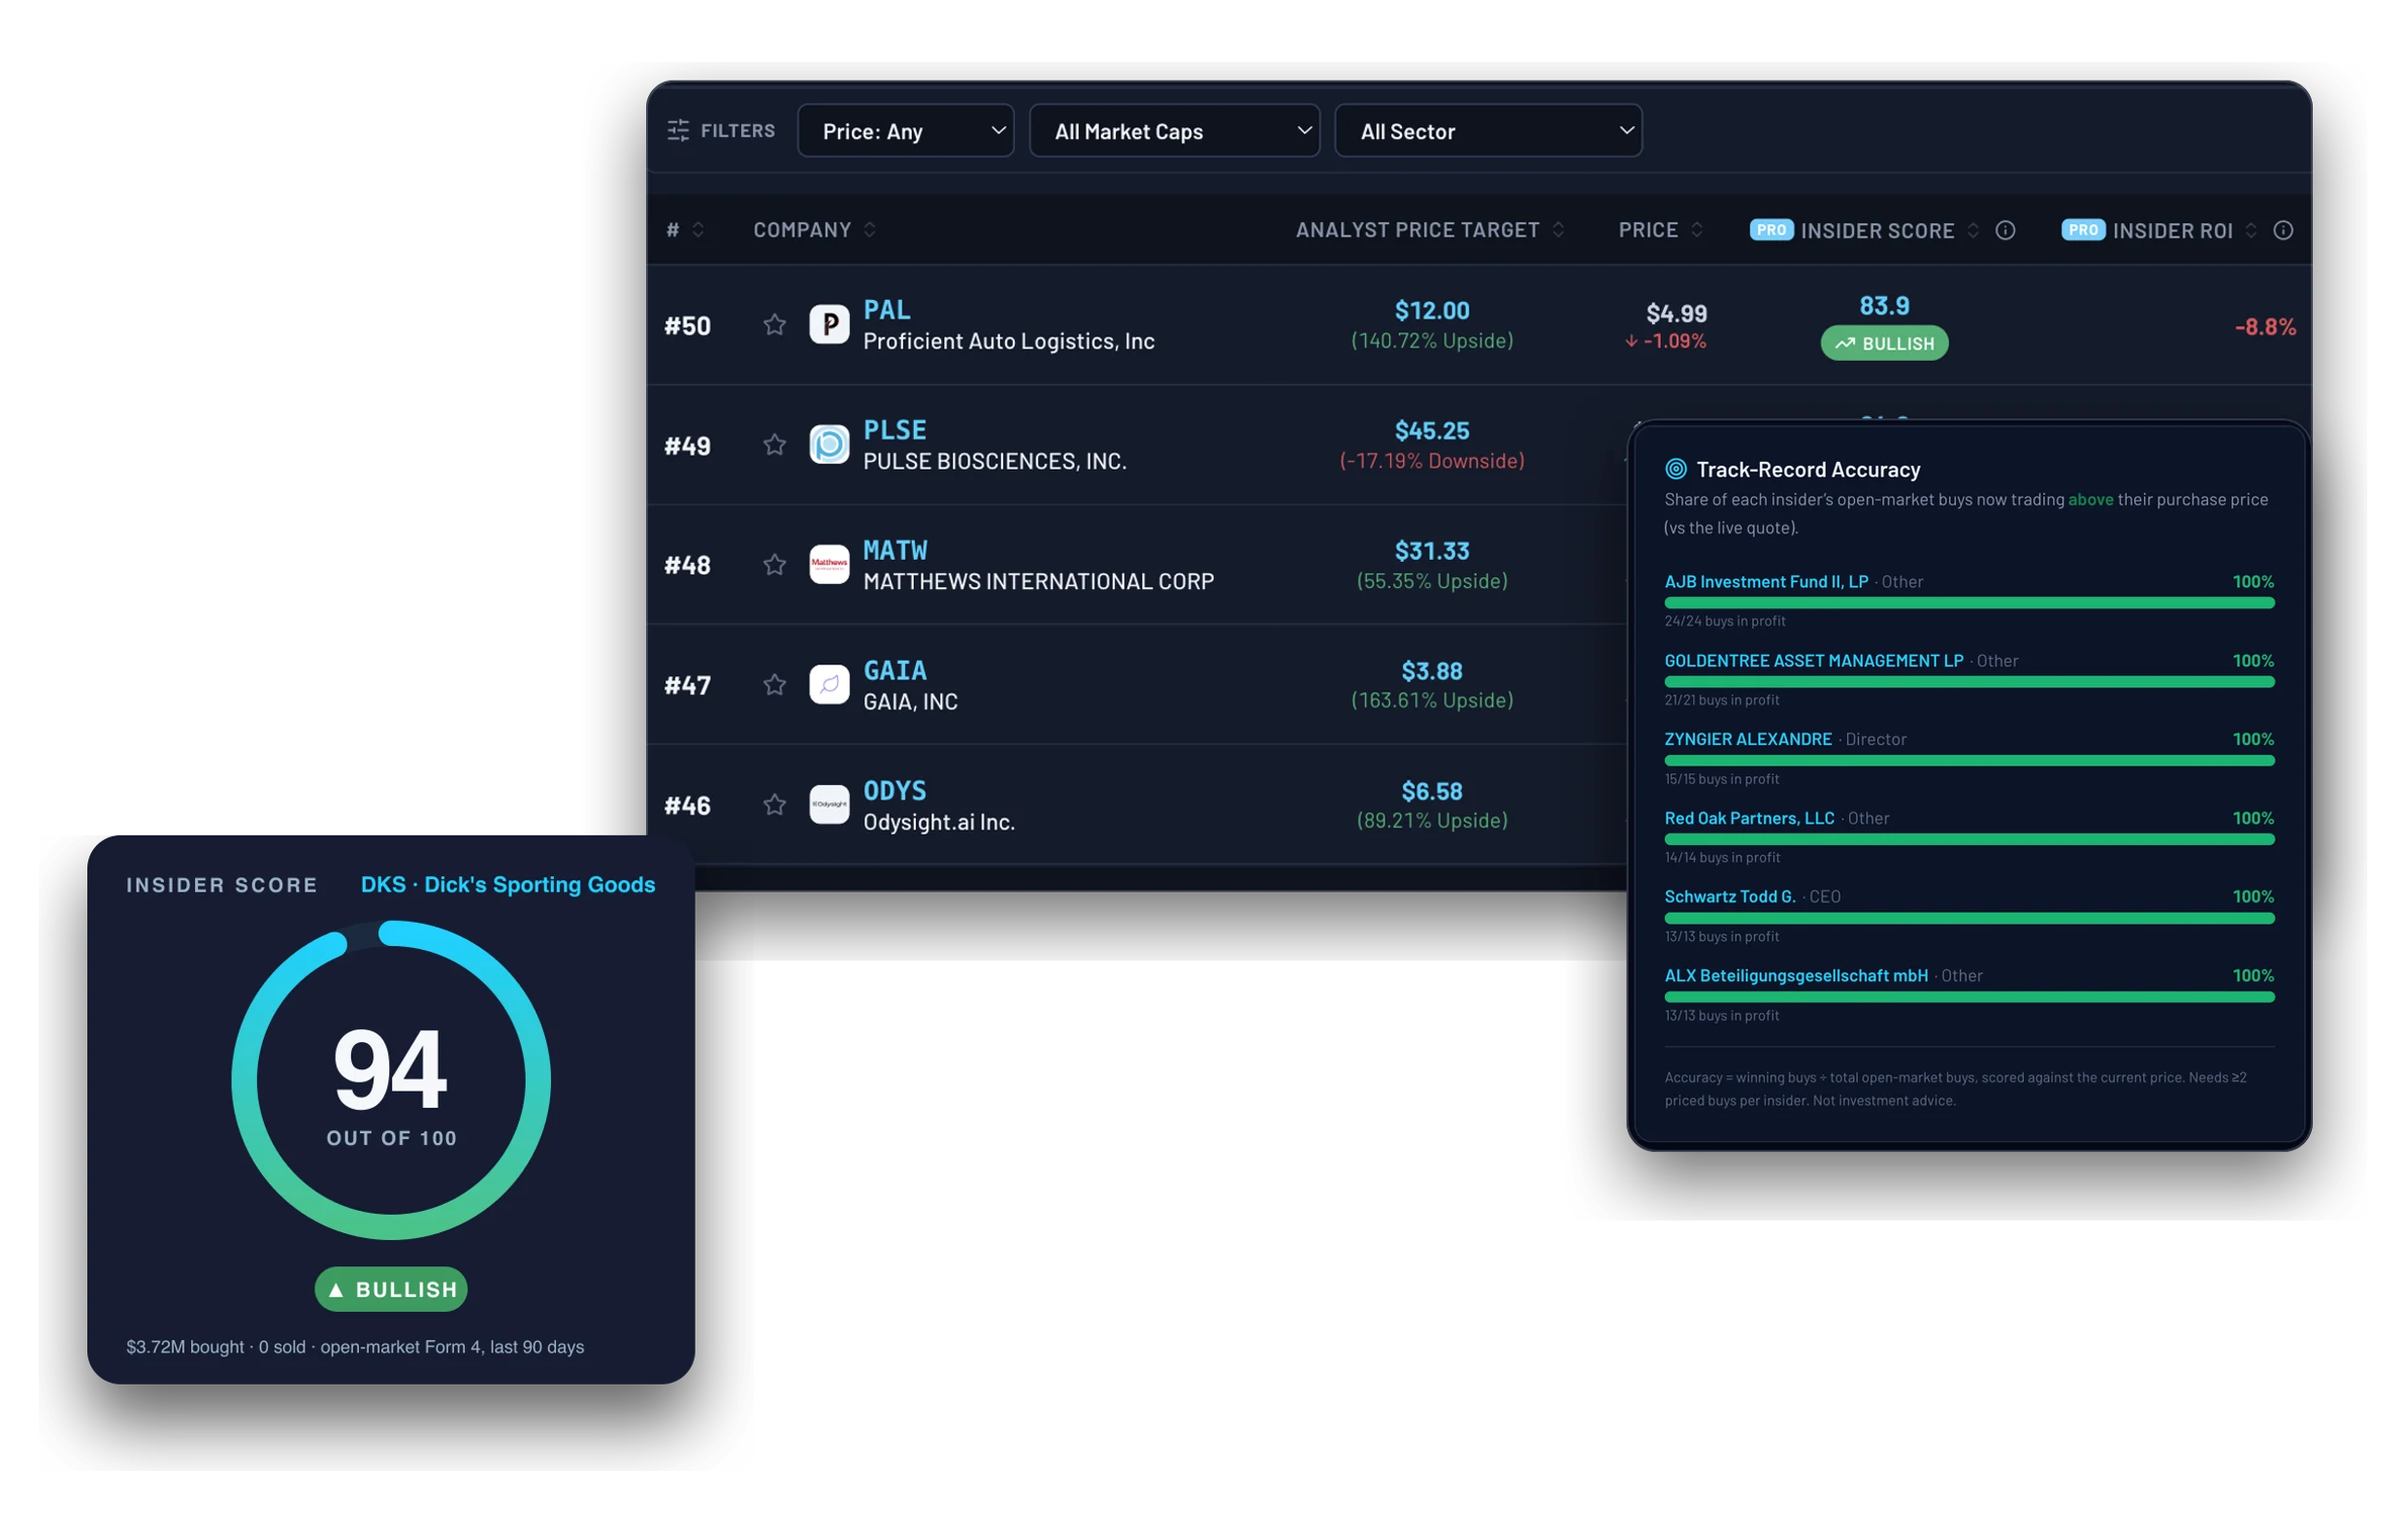
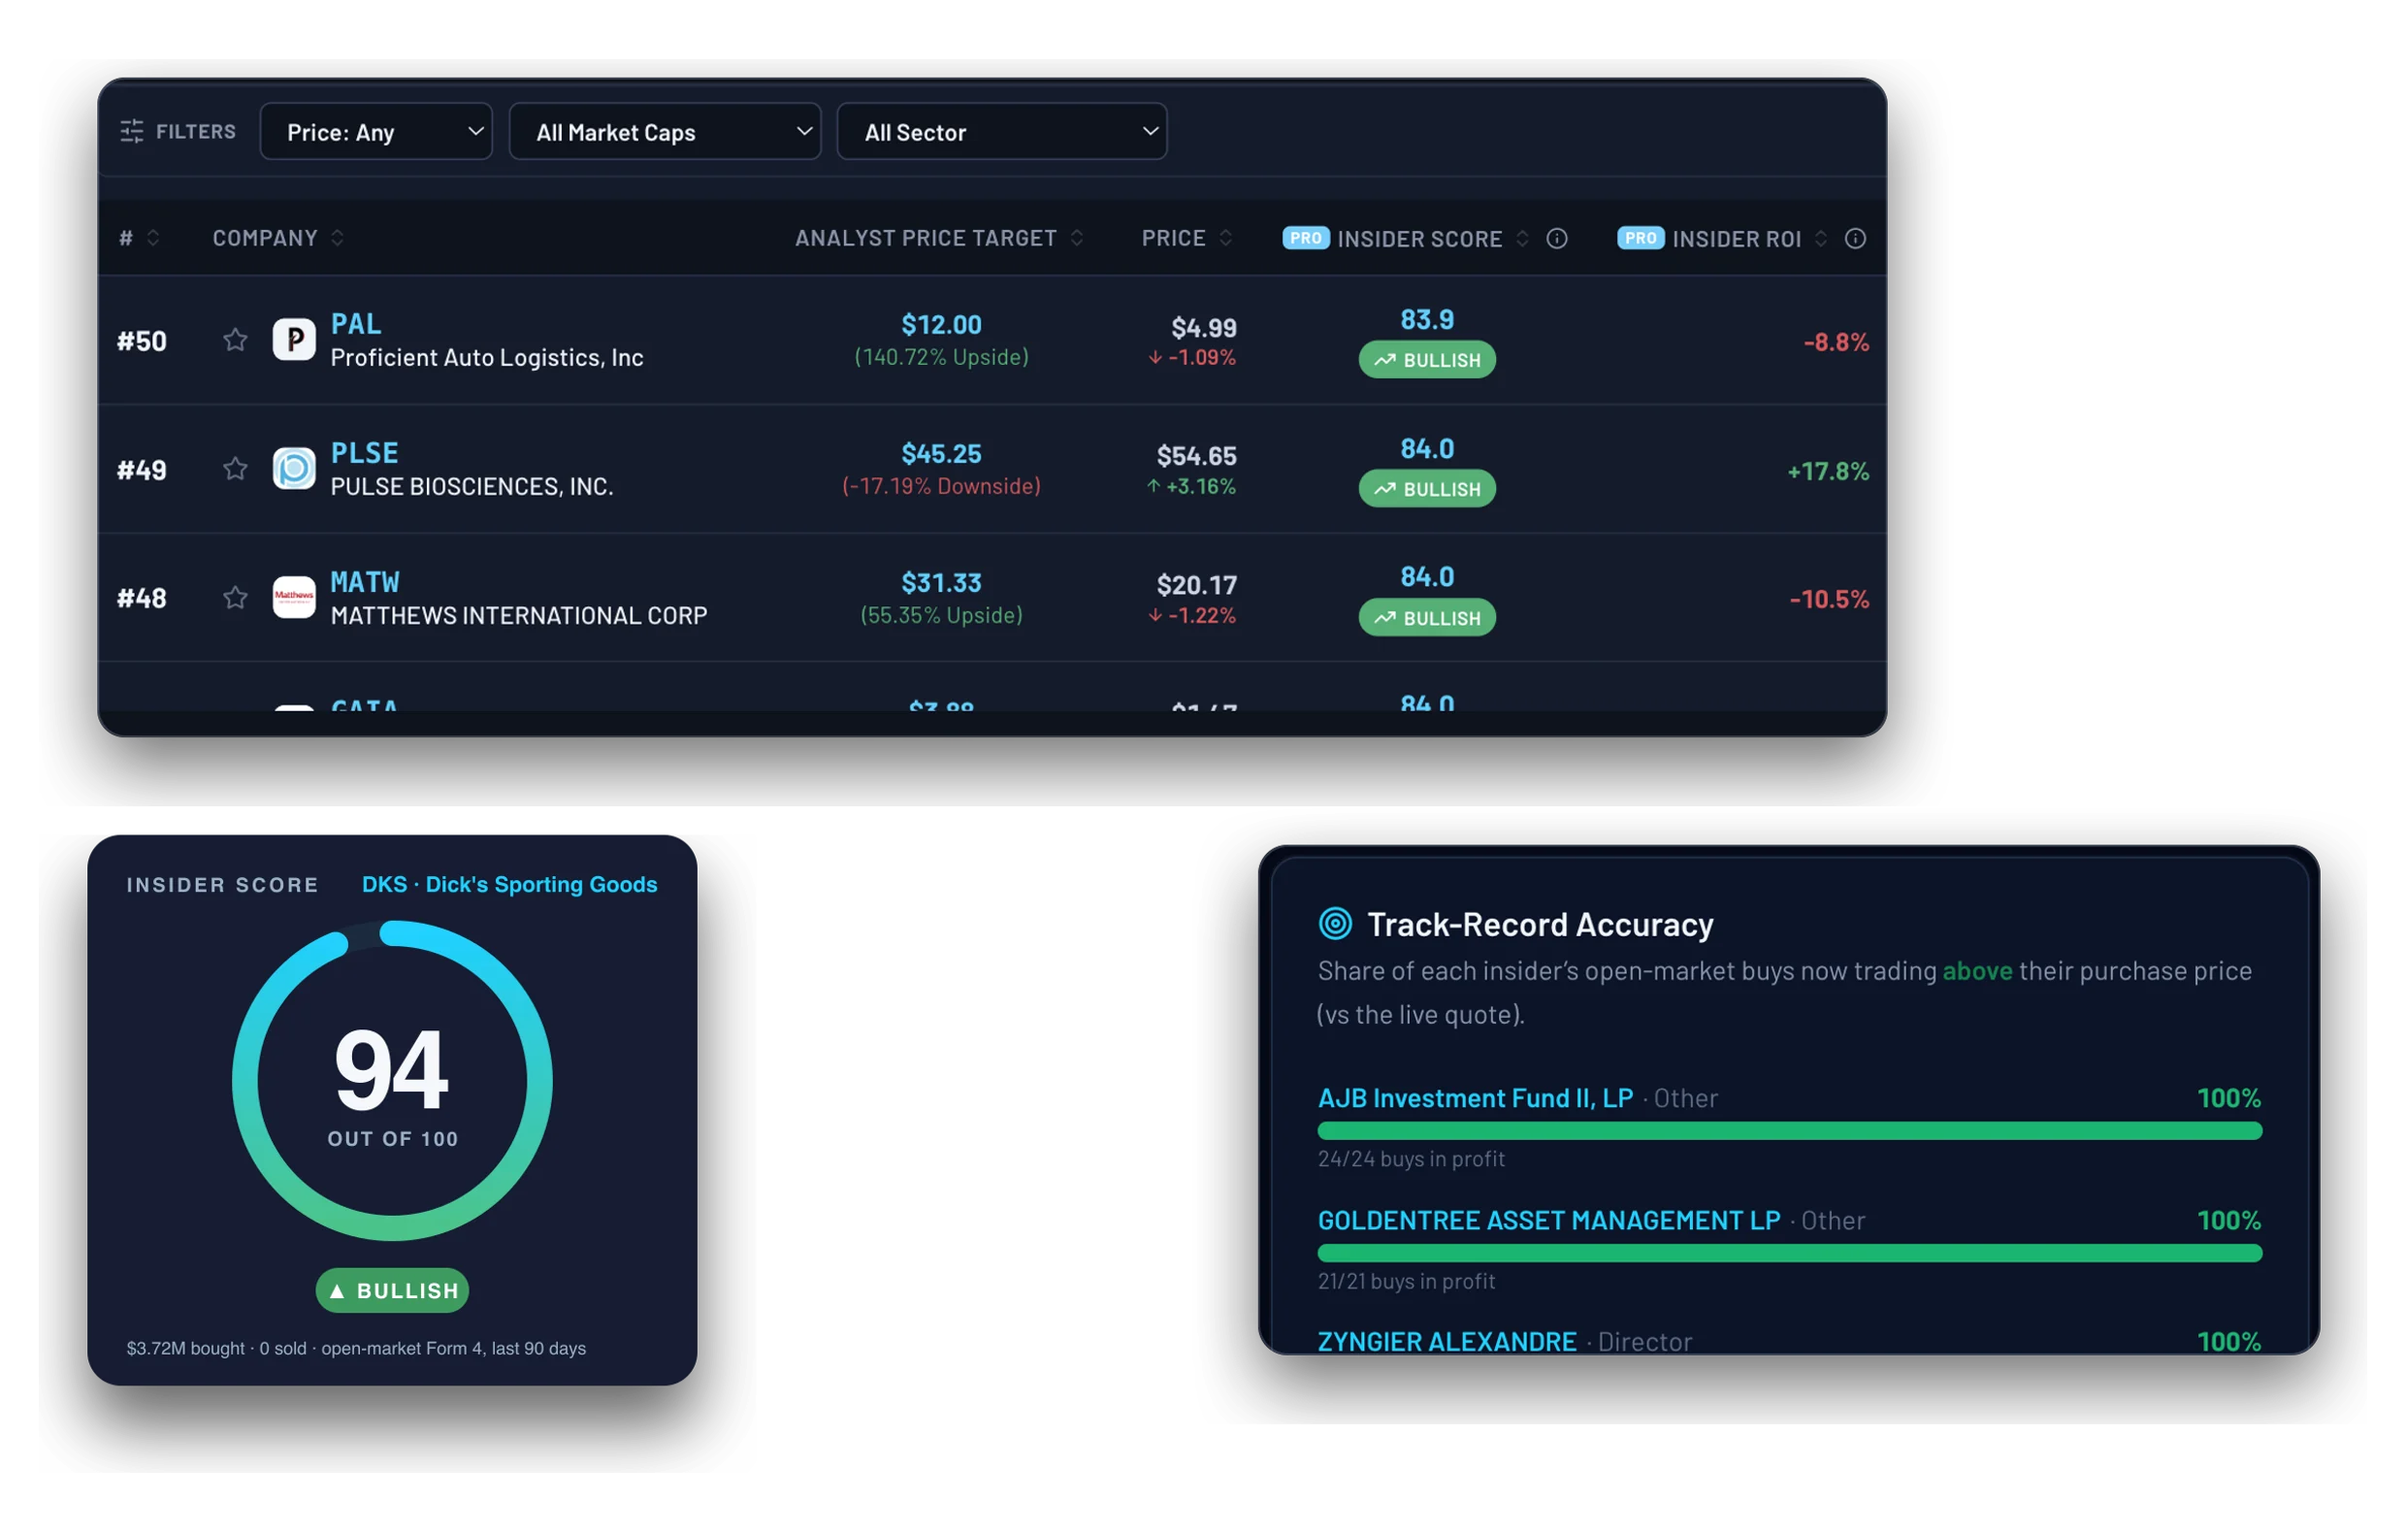
Subscribe visuals: make the screenshots readable, which is what George asked
George, twice on the 2026-09-10 call: "I don't like any of these screen shots
— you can't see this, right… it's too small." Measured against the live site,
every card in these compositions rendered smaller than its real size: the
track-record card at 0.60x, the ranked list at 0.63x, the tables at 0.81x and
0.87x. Three cards sharing one 16:10 frame that renders at ~966 CSS px is why.

frame() gains keepH, a height fraction, so a card can be WIDENED for legible
type and still fit the canvas by showing fewer rows — a pixel trimBottom could
not do that, because the light and dark captures are different sizes.

Visual 1 keeps its three cards but each is wider and shorter, laid out table
top-left, track-record bottom-right, dial bottom-left, so the only overlap left
is a thin band on the table's last row instead of the score columns.

Visual 3 drops the track-record card — visual 1 already carries it, and three
wide cards cannot share a frame without hiding each other. The analyst table
and the ranked list now sit one above the other at near full canvas width with
no overlap at all.

Both compositions still fill ~90% of the canvas at aspect 1.63 in both themes.
Card scales are now 0.86x / 0.93x / 0.92x / 0.85x.

George still owes the final screenshots: he agreed on the call ("okay I'll do
that") to send clean ones with his column choices and placement.

diff --git a/frontend/components/premium/ProductShowcase.tsx b/frontend/components/premium/ProductShowcase.tsx
@@ -60,7 +60,7 @@ export const SHOWCASE: ShowcaseVisual[] = [
       "Filter by CEO, CFO, politician or fund",
     ],
     file: "top-analysts-insiders",
-    alt: "Analyst leaderboard beside insider track-record cards",
+    alt: "Analyst leaderboard above the insiders ranked by buying volume",
     aspect: 16 / 10,
     mobileAspect: 0.8458,
   },
